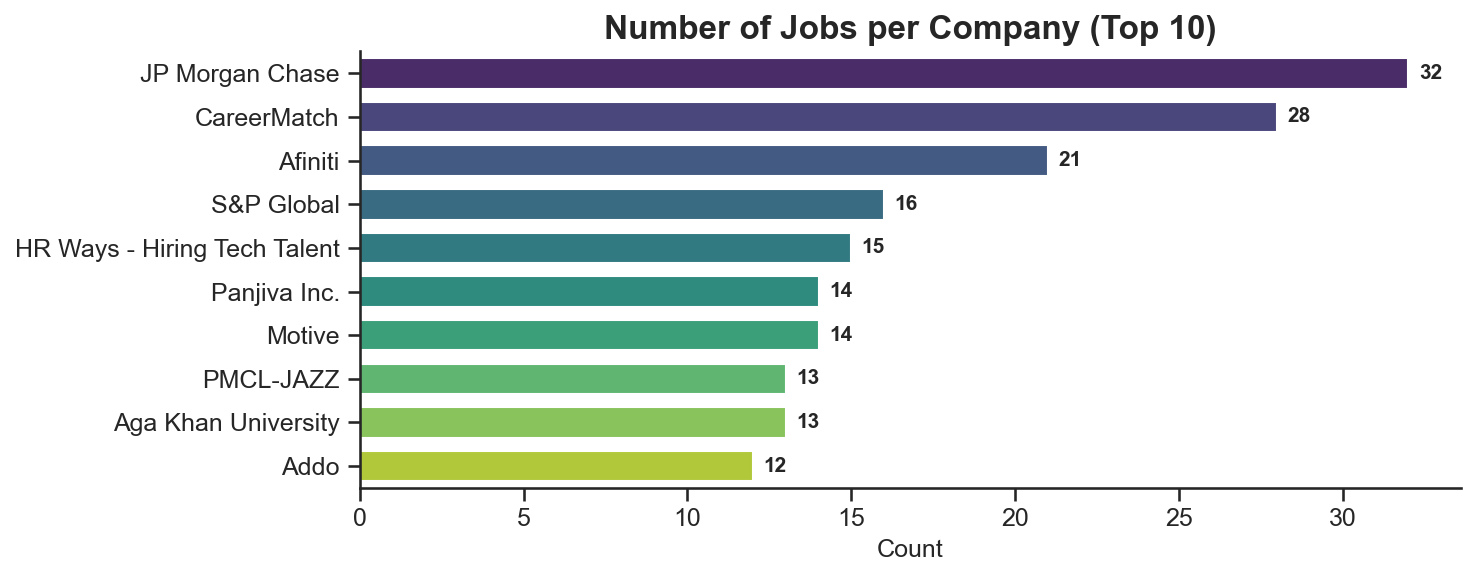
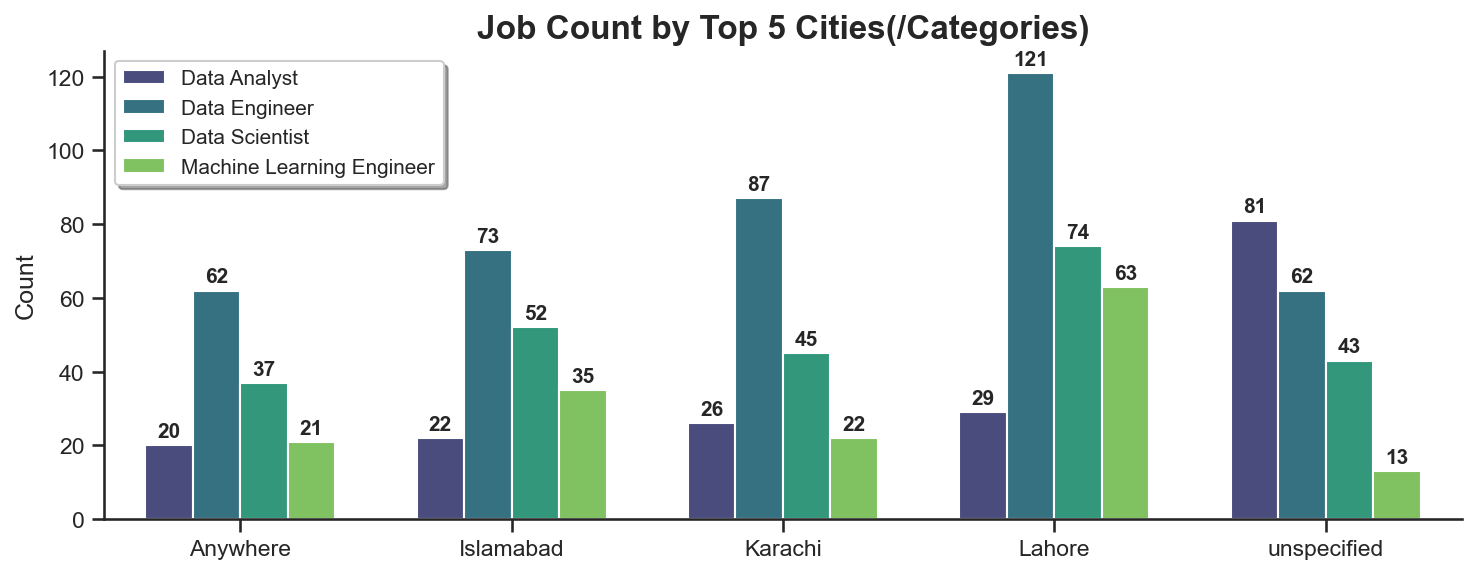
made readme more intuitive

diff --git a/readme.md b/readme.md
@@ -3,26 +3,26 @@
 This project analyzes the data job market in Pakistan and compares it with other countries of similar GDP levels, including Egypt, Nigeria, Turkey, and Bangladesh. The analysis includes exploratory data analysis (EDA), a comparative study, a detailed focus on Pakistan's job market, and an in-depth skills trend analysis.
 
 ## Table of Contents
-1. [Introduction](#introduction)
-2. [Exploratory Data Analysis (EDA)](#exploratory-data-analysis-eda)
-3. [Comparative Analysis](#comparative-analysis)
-4. [Detailed Analysis of Pakistan's Data Job Market](#detailed-analysis-of-pakistans-data-job-market)
-5. [Skills Trend Analysis in Pakistan](#skills-trend-analysis-in-pakistan)
-6. [Conclusions](#conclusions)
-7. [Data Source](#data-source)
-8. [Setup and Installation](#setup-and-installation)
-9. [Running the Project](#running-the-project)
-10. [Prerequisites](#prerequisites)
+1. [Introduction](#1.introduction)
+2. [Exploratory Data Analysis (EDA)](#2.1.exploratory-data-analysis-eda)
+3. [Comparative Analysis](#2.2.comparative-analysis)
+4. [Detailed Analysis of Pakistan's Data Job Market](#2.3.detailed-analysis-of-pakistans-data-job-market)
+5. [Skills Trend Analysis in Pakistan](#2.4.skills-trend-analysis-in-pakistan)
+6. [Conclusions](#3.conclusions)
+7. [Data Source](#4.data-source)
+8. [Setup and Installation](#5.setup-and-installation)
+9. [Running the Project](#6.running-the-project)
+10. [Prerequisites](#7.prerequisites)
 11. [Acknowledgements](#acknowledgements)
 12. [License](#license)
 
 ## 1. Introduction
 This repository contains a comprehensive analysis of the data job market, focusing on Pakistan and several comparative countries. The analysis is divided into four notebooks, each covering a different aspect of the study.
 
-### 2.1 Exploratory Data Analysis (EDA) 
+### 2.1. Exploratory Data Analysis (EDA) 
 In this [notebook](https://github.com/johnramal/data_jobs_pak/blob/main/5_eda.ipynb), we import the dataset from Luke Barousse's Hugging Face repository and filter for data-related jobs. The filtered datasets are saved as `df_pak.csv` and `df_comparison_countries.csv`. Unfortunately, due to a lack of salary information in most postings, we were unable to perform a statistically significant numerical analysis on salary data.
 
-### 2.2 Comparative Analysis
+### 2.2. Comparative Analysis
 
 #### 1. Approach
 
@@ -39,7 +39,7 @@ In this [notebook](https://github.com/johnramal/data_jobs_pak/blob/main/6_comapr
   ![benefit analysis](/insights_graphs/benefit_analysis.png)
 
 
-### 2.3 Detailed Analysis of Pakistan's Data Job Market
+### 2.3. Detailed Analysis of Pakistan's Data Job Market
 
 #### 1. Approach
 
@@ -60,18 +60,40 @@ In this [notebook](https://github.com/johnramal/data_jobs_pak/blob/main/7_detail
   ![jobs per city](/insights_graphs/job_count_by_city_and_title_pak.png)
 
 
-### 2.4 Skills Trend Analysis in Pakistan
-In this [notebook](https://github.com/johnramal/data_jobs_pak/blob/main/8_skills_trends_pak.ipynb), we focus on the skill requirements for data jobs in Pakistan, analyzing the distribution of the top 10 skills across various job titles. The analysis includes a blob chart for skill distribution and a radar chart for visualization. Python, SQL, AWS, and Tableau emerge as the top skills. We also perform a time analysis from January to December, finding no significant fluctuations in skill requirements.
+### 2.4. Skills Trend Analysis in Pakistan
 
- ![](path_to_your_image)
+#### 1. Approach
 
-### 3 Conclusions
+In this [notebook](https://github.com/johnramal/data_jobs_pak/blob/main/8_skills_trends_pak.ipynb), we analyze the skill requirements for data jobs in Pakistan. The analysis explores the distribution of the top 10 skills across various job titles using a blob chart and examines skill requirements through a radar chart. Additionally, a time-based analysis from January to December was conducted to observe any trends or fluctuations in skill demand.
+
+#### 2. Insights
+
+- **Top Skills**: Python, SQL, AWS, and Tableau are identified as the most sought-after skills in Pakistan's data job market. These skills are consistently required across various job titles, indicating their importance for data professionals in the country.
+
+  ![blob chart](/insights_graphs/top_skills_distribution_blob.png)
+
+- **Required Skills by Job Posting**: The radar chart illustrates the specific skill requirements as mentioned in job postings, reinforcing the prominence of Python, SQL, AWS, and Tableau.
+
+  ![required skills](/insights_graphs/job_requirement_radar.png)
+
+- **Monthly Skill Trend**: A time-based analysis from January to December shows that there are no significant fluctuations in skill requirements throughout the year, indicating a stable demand for these core skills.
+
+  ![radar chart for skill trend](/insights_graphs/skill_liklyhood_monthly_trend.png)
+
+
+## 3. Conclusions
 The analysis provides insights into the emerging data job market in Pakistan and offers a comparative perspective with other countries of similar GDP. The findings highlight the growing demand for technical skills and the role of foreign companies in shaping the job landscape.
 
-## 4 Data Source
+## 4. Data Source and Prerequisites
+
 The dataset used in this project is sourced from [Luke Barousse's Hugging Face repository](https://huggingface.co/datasets/lukebarousse/data_jobs). The data includes job postings from various countries and was instrumental in performing the analyses presented in this project.
 
-## 5 Setup and Installation
+### Prerequisites
+- Python 3.x
+- Jupyter Notebook
+- Required Python libraries (listed in `requirements.txt`)
+
+## 5. Setup, Installation, and Running the Project
 
 This project uses a Conda environment. You can set it up using either the `environment.yml` file or the `requirements.txt` file.
 
@@ -106,7 +128,7 @@ This project uses a Conda environment. You can set it up using either the `envir
     pip install -r requirements.txt
     ```
 
-## Running the Project
+### Running the Project
 After setting up the environment using either method:
 
 1. Launch Jupyter Notebook:
@@ -118,15 +140,10 @@ After setting up the environment using either method:
 
 **Note:** If you encounter any issues with package versions, please refer to the `environment.yml` file for the specific versions used in this project.
 
-## 6 Prerequisites
-- Python 3.x
-- Jupyter Notebook
-- Required Python libraries are listed in `requirements.txt`.
-
-## 7 Acknowledgements
+## 6. Acknowledgements
 Special thanks to [Luke Barousse](https://www.youtube.com/@LukeBarousse) for providing the dataset on Hugging Face, which served as the foundation for this analysis.
 
-## 8  License
+## 7. License
 
 MIT License
 
